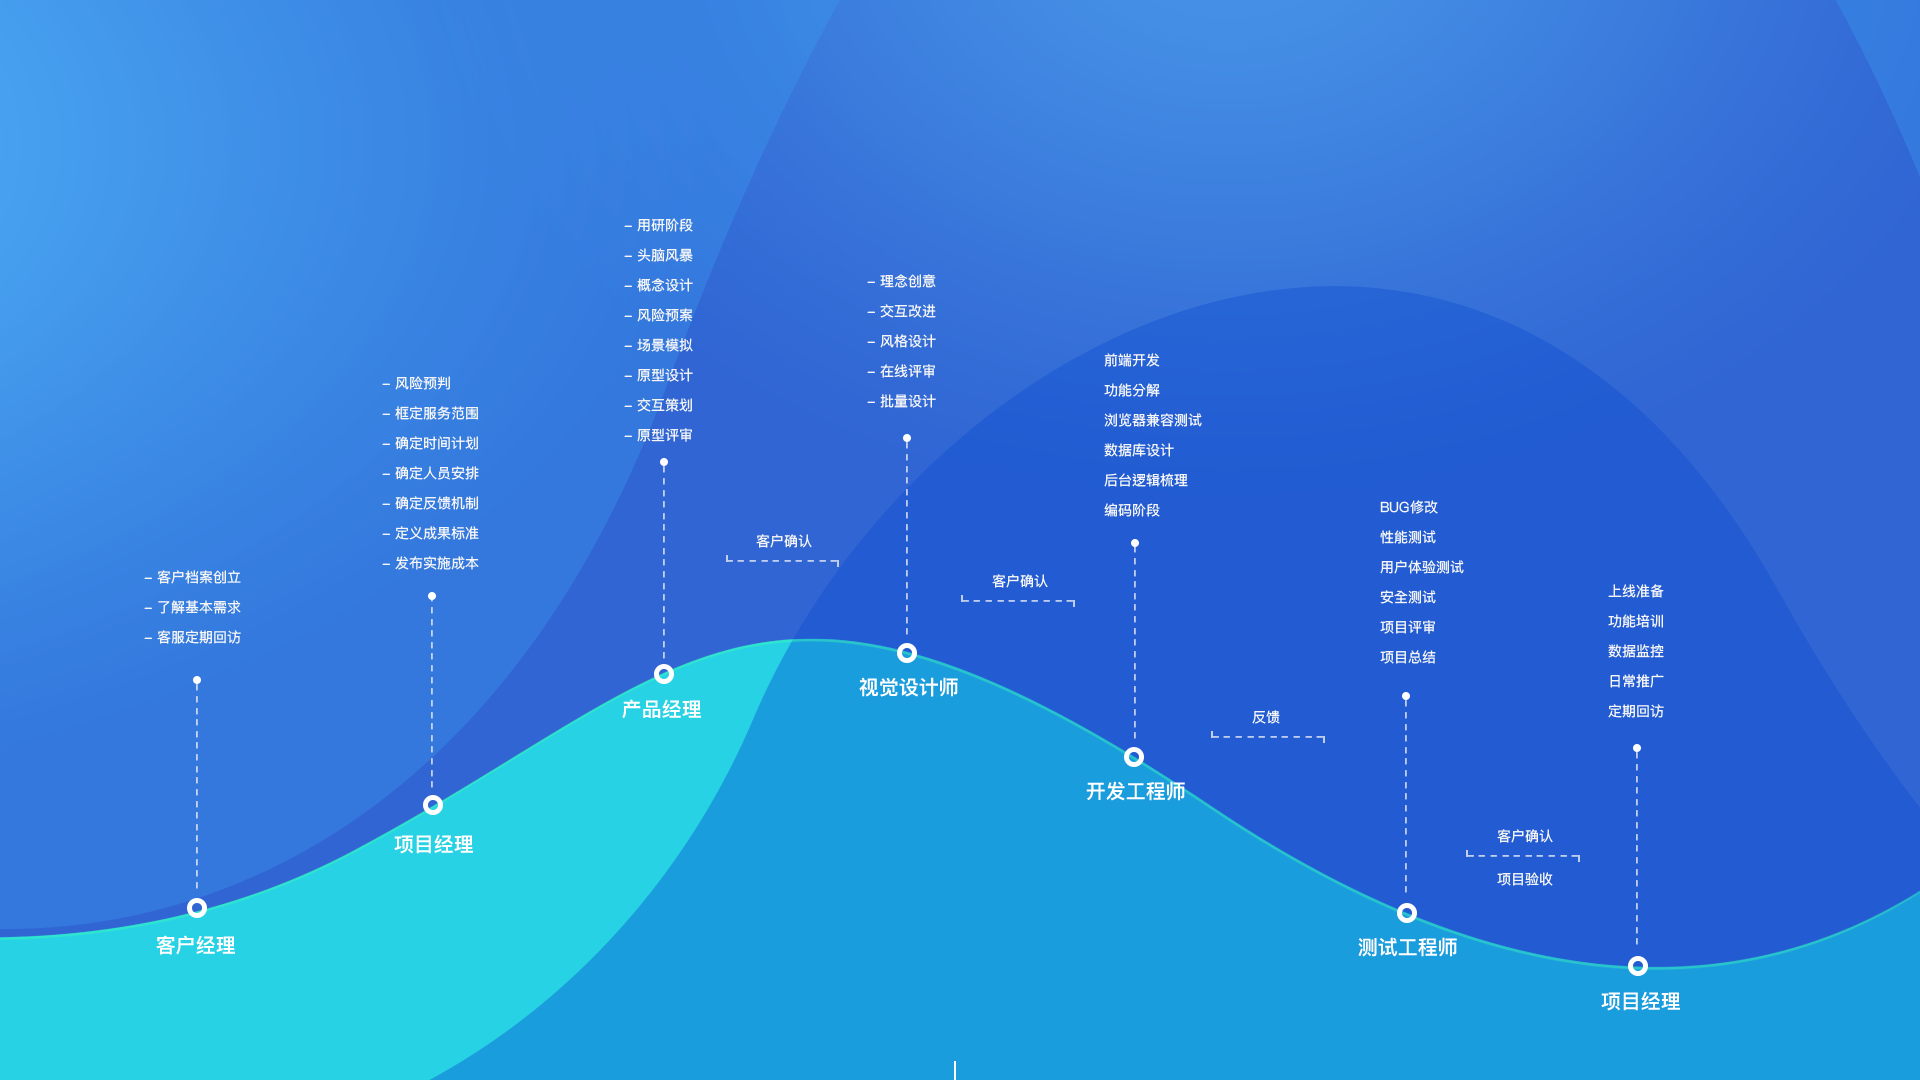
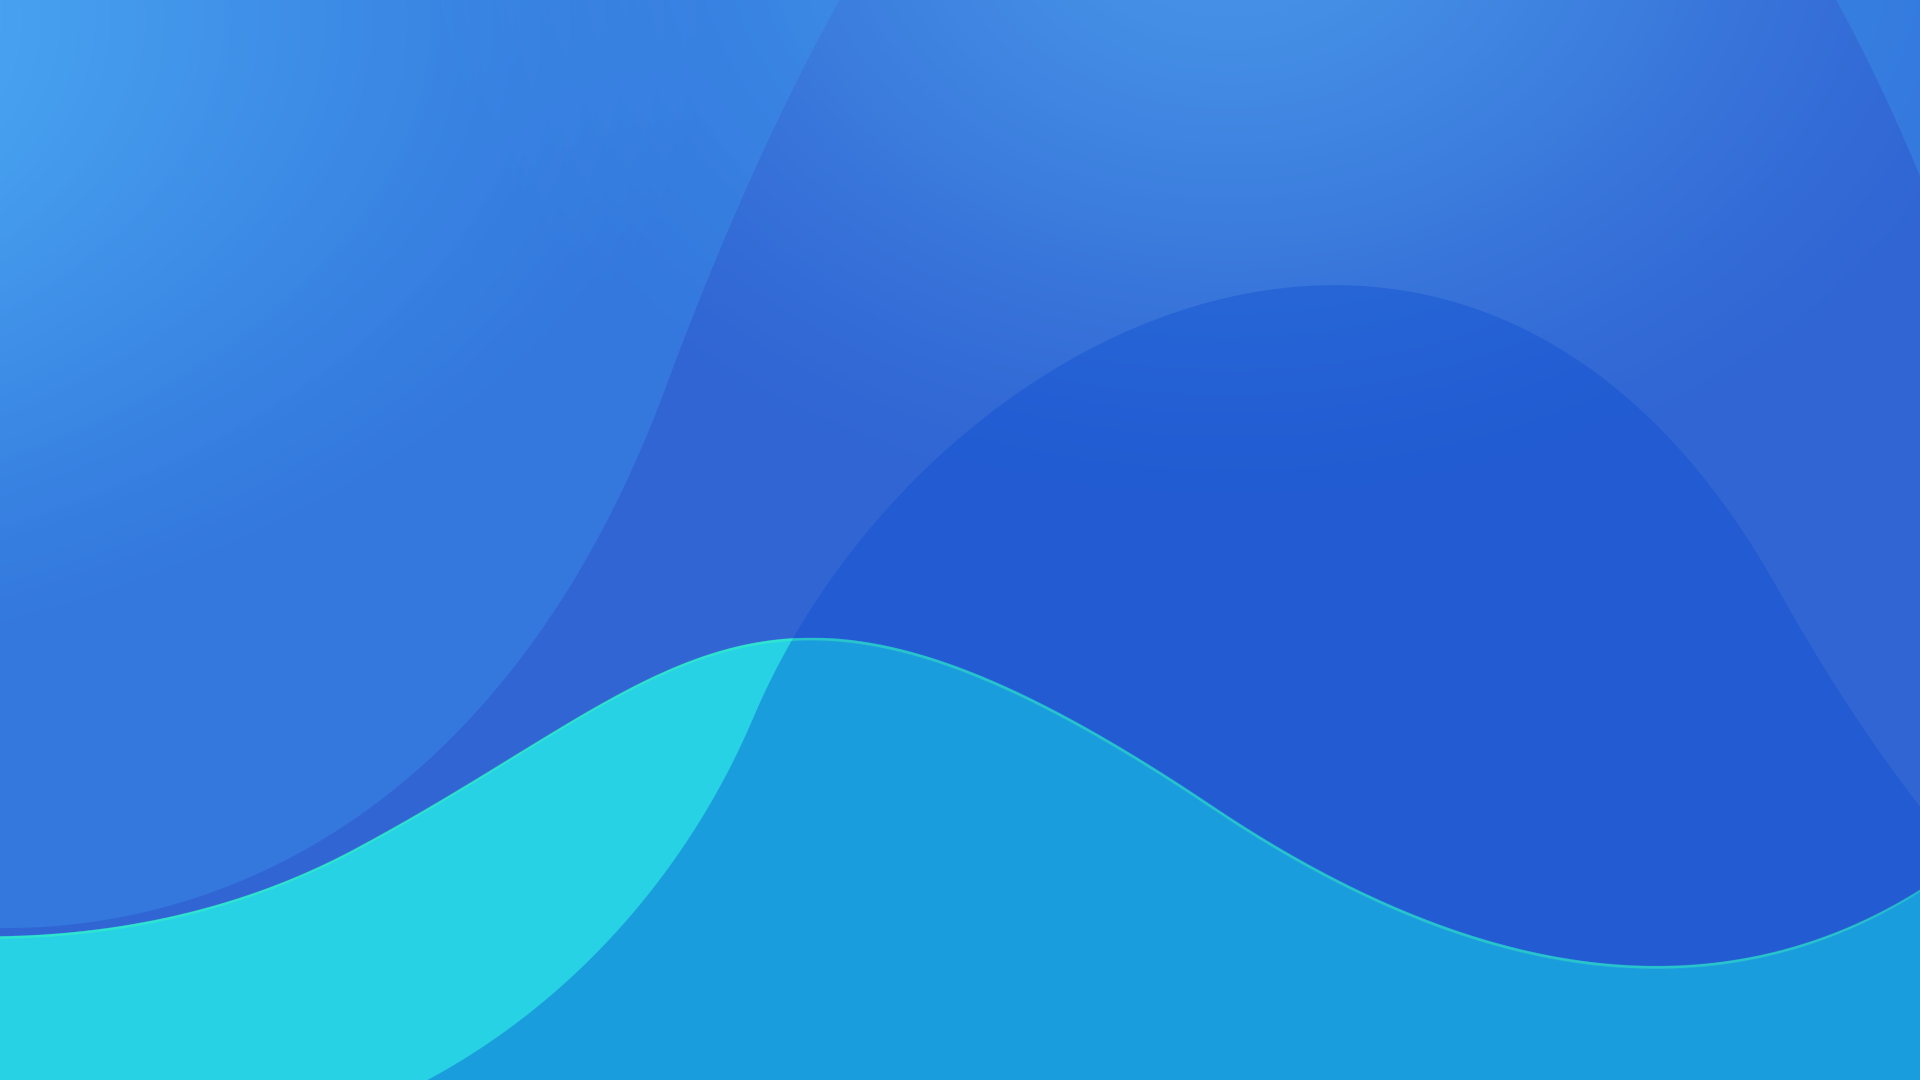
xun-ao5-18

diff --git a/service.html b/service.html
@@ -26,7 +26,7 @@
             <ul>
                 <li class="active font18"><a class="color_fff" href="">首页</a></li>
                 <li class="font18"><a class="color_fff" href="">案例</a></li>
-                <li class="font18"><a class="color_fff" href="">服务</a></li>
+                <li class="font18"><a class="color_fff" href="service.html">服务</a></li>
                 <li class="font18"><a class="color_fff" href="">方案</a></li>
                 <li class="font18"><a class="color_fff" href="">合作</a></li>
                 <li class="font18"><a class="color_fff" href="">关于</a></li>
@@ -41,7 +41,7 @@
     <ul class="menu_link">
         <li class="active font18" ><a class="color_fff" href="">首页</a></li>
         <li class="font18"><a class="color_fff" href="">案例</a></li>
-        <li class="font18"><a class="color_fff" href="">服务</a></li>
+        <li class="font18"><a class="color_fff" href="service.html">服务</a></li>
         <li class="font18"><a class="color_fff" href="">方案</a></li>
         <li class="font18"><a class="color_fff" href="">合作</a></li>
         <li class="font18"><a class="color_fff" href="">关于</a></li>
@@ -63,81 +63,188 @@
                 <img src="images/typeIcon1.png" alt="产品方案策略"/>
                 <h3>产品方案策略</h3>
                 <ul class="animated">
-                    <li class="col-lg-4">专家评估及需求分析</li>
-                    <li class="col-lg-4">竞品分析及趋势研究</li>
-                    <li class="col-lg-4">开放式的目标人群调研</li>
-                    <li class="col-lg-4">产品功能模型定义</li>
-                    <li class="col-lg-4">产品性格塑造</li>
-                    <li class="col-lg-4">产品体验创新设计实施</li>
-                    <li class="col-lg-4">设计指南规范输出 </li>
+                    <h3>产品方案策略</h3>
+                    <li>专家评估及需求分析</li>
+                    <li>竞品分析及趋势研究</li>
+                    <li>开放式的目标人群调研</li>
+                    <li>产品功能模型定义</li>
+                    <li>产品性格塑造</li>
+                    <li>产品体验创新设计实施</li>
+                    <li>设计指南规范输出 </li>
                 </ul>
             </li>
             <li class="col-lg-4">
                 <img src="images/typeIcon2.png" alt="产品体验设计"/>
                 <h3>产品体验设计</h3>
                 <ul class="animated">
-                    <li class="col-lg-4">用户问卷设计</li>
-                    <li class="col-lg-4">用户行业分析</li>
-                    <li class="col-lg-4">产品原型设计</li>
-                    <li class="col-lg-4">产品交互设计</li>
-                    <li class="col-lg-4">UI界面设计</li>
-                    <li class="col-lg-4">图标规范设计</li>
+                    <h3>产品体验设计</h3>
+                    <li>用户问卷设计</li>
+                    <li>用户行业分析</li>
+                    <li>产品原型设计</li>
+                    <li>产品交互设计</li>
+                    <li>UI界面设计</li>
+                    <li>图标规范设计</li>
                 </ul>
             </li>
             <li class="col-lg-4">
                 <img src="images/typeIcon3.png" alt="移动端APP开发"/>
                 <h3>移动端APP开发</h3>
                 <ul class="animated">
-                    <li class="col-lg-4">直播电商APP开发</li>
-                    <li class="col-lg-4">社交APP开发</li>
-                    <li class="col-lg-4">新媒体APP开发</li>
-                    <li class="col-lg-4">农业APP开发</li>
-                    <li class="col-lg-4">工业APP开发</li>
-                    <li class="col-lg-4">生活APP开发</li>
-                    <li class="col-lg-4">智能应用APP开发</li>
+                    <h3>移动端APP开发</h3>
+                    <li>直播电商APP开发</li>
+                    <li>社交APP开发</li>
+                    <li>新媒体APP开发</li>
+                    <li>农业APP开发</li>
+                    <li>工业APP开发</li>
+                    <li>生活APP开发</li>
+                    <li>智能应用APP开发</li>
                 </ul>
             </li>
             <li class="col-lg-4">
                 <img src="images/typeIcon4.png" alt="微信H5开发"/>
                 <h3>微信H5开发</h3>
                 <ul class="animated">
-                    <li class="col-lg-4">H5活动页面订制</li>
-                    <li class="col-lg-4">微信公众号开发</li>
-                    <li class="col-lg-4">微官网建设</li>
-                    <li class="col-lg-4">微短片创意制作</li>
-                    <li class="col-lg-4">微分销</li>
-                    <li class="col-lg-4">微信支付</li>
+                    <h3>微信H5开发</h3>
+                    <li>H5活动页面订制</li>
+                    <li>微信公众号开发</li>
+                    <li>微官网建设</li>
+                    <li>微短片创意制作</li>
+                    <li>微分销</li>
+                    <li>微信支付</li>
                 </ul>
             </li>
             <li class="col-lg-4">
                 <img src="images/typeIcon5.png" alt="技术研发"/>
                 <h3>技术研发</h3>
                 <ul class="animated">
-                    <li class="col-lg-4">门户网站CMS系统开发</li>
-                    <li class="col-lg-4">CRM客户管理系统</li>
-                    <li class="col-lg-4">数据可视化应用开发</li>
-                    <li class="col-lg-4">视频直播系统订制</li>
-                    <li class="col-lg-4">电商平台开发</li>
-                    <li class="col-lg-4">响应式网站开发</li>
+                    <h3>技术研发</h3>
+                    <li>门户网站CMS系统开发</li>
+                    <li>CRM客户管理系统</li>
+                    <li>数据可视化应用开发</li>
+                    <li>视频直播系统订制</li>
+                    <li>电商平台开发</li>
+                    <li>响应式网站开发</li>
                 </ul>
             </li>
             <li class="col-lg-4">
                 <img src="images/typeIcon6.png" alt="创意数字动画"/>
                 <h3>创意数字动画</h3>
                 <ul class="animated">
-                    <li class="col-lg-4">卡通形象设计</li>
-                    <li class="col-lg-4">动画场景设计</li>
-                    <li class="col-lg-4">新媒体APP开发</li>
-                    <li class="col-lg-4">短片制作</li>
-                    <li class="col-lg-4">小游戏制作</li>
-                    <li class="col-lg-4">3D虚拟场景</li>
+                    <h3>创意数字动画</h3>
+                    <li>卡通形象设计</li>
+                    <li>动画场景设计</li>
+                    <li>新媒体APP开发</li>
+                    <li>短片制作</li>
+                    <li>小游戏制作</li>
+                    <li>3D虚拟场景</li>
                 </ul>
             </li>
         </ul>
     </li>
     <li class="third">
         <h2>迅傲项目流程</h2>
-
+        <ul>
+            <li class="point">
+                <h3>客户经理</h3>
+                <img src="images/works.png" alt=""/>
+                <div class="works">
+                    <p>- 客户档案建立</p>
+                    <p>- 了解基本需求</p>
+                    <p>- 客服定期回访</p>
+                </div>
+            </li>
+            <li></li>
+            <li class="point">
+                <h3>项目经理</h3>
+                <img src="images/works.png" alt=""/>
+                <div class="works">
+                    <p>- 风险预判</p>
+                    <p>- 框定服务范围</p>
+                    <p>- 确定时间计划</p>
+                    <p>- 确定人员安排</p>
+                    <p>- 确定反馈机制</p>
+                    <p>- 定义成果标准</p>
+                    <p>- 发布实施成本</p>
+                </div>
+            </li>
+            <li>        </li>
+            <li class="point">
+                <h3>产品经理</h3>
+                <img src="images/works.png" alt=""/>
+                <div class="works">
+                    <p>- 用研阶段</p>
+                    <p>- 头脑风暴</p>
+                    <p>- 概念设计</p>
+                    <p>- 风险预案</p>
+                    <p>- 场景模拟</p>
+                    <p>- 原型设计</p>
+                    <p>- 交互策划</p>
+                    <p>- 原型评审</p>
+                </div>
+            </li>
+            <li class="process">
+                <p class="text1">客户确认</p>
+                <img src="images/progress.png" alt=""/>
+            </li>
+            <li class="point">
+                <h3>视觉设计师</h3>
+                <img src="images/works.png" alt=""/>
+                <div class="works">
+                    <p>- 理念创意</p>
+                    <p>- 交互改进</p>
+                    <p>- 风格设计</p>
+                    <p>- 在线评审</p>
+                    <p>- 批量设计</p>
+                </div>
+            </li>
+            <li class="process">
+                <p class="text1">客户确认</p>
+                <img src="images/progress.png" alt=""/>
+            </li>
+            <li class="point">
+                <h3>开发工程师</h3>
+                <img src="images/works.png" alt=""/>
+                <div class="works">
+                    <p>- 前端开发</p>
+                    <p>- 功能分解</p>
+                    <p>- 数据库设计</p>
+                    <p>- 后台逻辑梳理</p>
+                    <p>- 编码阶段</p>
+                </div>
+            </li>
+            <li class="process">
+                <p class="text1">反馈</p>
+                <img src="images/progress.png" alt=""/>
+            </li>
+            <li class="point">
+                <h3>测试工程师</h3>
+                <img src="images/works.png" alt=""/>
+                <div class="works">
+                    <p>- BUG修改</p>
+                    <p>- 性能测试</p>
+                    <p>- 用户体验测试</p>
+                    <p>- 安全测试</p>
+                    <p>- 项目评审</p>
+                    <p>- 项目总结</p>
+                </div>
+            </li>
+            <li class="process">
+                <p class="text1">客户确认</p>
+                <img src="images/progress.png" alt=""/>
+                <p class="text2">验收</p>
+            </li>
+            <li class="point">
+                <h3>项目经理</h3>
+                <img src="images/works.png" alt=""/>
+                <div class="works">
+                    <p>- 上线准备</p>
+                    <p>- 功能培训</p>
+                    <p>- 数据监控</p>
+                    <p>- 日常推广</p>
+                    <p>- 定期回访</p>
+                </div>
+            </li>
+        </ul>
     </li>
     <li class="forth">
         <img src="images/dna.png" alt="迅傲服务亮点">
@@ -303,8 +410,12 @@
             $(".typeList>li img").css({
                 "marginBottom":(height/54*10)
             });
-            $(".typeList>li h3").css({
+            $(".typeList>li>h3").css({
                 "marginBottom":(height/54*4)
+            });
+            $(".typeList>li>ul h3").css({
+                "marginTop":(height/540*80),
+                "marginBottom":(height/540*80),
             });
         }
         type();
@@ -313,6 +424,25 @@
             var height = $(".third").height();
             $(".third h2").css({
                 "paddingTop":height/1080*80,
+            });
+            $(".third ul").css({
+                "bottom":height/1080*200,
+            });
+            $(".third .point img").css({
+                "bottom":height/1080*36,
+                "height":height/1080*223
+            });
+            $(".third .point .works").css({
+                "bottom":height/1080*259,
+            });
+            $(".third .process img").css({
+                "bottom":height/1080*150,
+            });
+            $(".third .process p.text1").css({
+                "bottom":height/1080*150,
+            });
+            $(".third .process p.text2").css({
+                "bottom":height/1080*95,
             });
         }
         line();

diff --git a/css/service.css b/css/service.css
@@ -1,30 +1,38 @@
 .screenList{width: 100%;height: 100%;margin-bottom:0;position: relative;}
 .screenList>li{width: 100%;height: 100%;font-size: 0;}
-
+/*first*/
 .screenList li.first{background:url('../images/service1.png') top center no-repeat;background-size: cover;position: relative;}
 .screenList li.first .thinking{position: absolute;top:50%;left:50%;z-index: 2;}
 .first .thinking h2{font-size: 45px;color: #fff;line-height: 50px;text-align: center;margin: 0;}
 .first .thinking p{font-size: 20px;color: #fff;line-height: 25px;text-align: center;margin: 0;}
 .first .thinking p.top{margin-top: 44px;}
-
+/*second*/
 .screenList li.second{background-color: #fff;}
 .second .typeList{overflow: hidden;width:100%;height: 100%;}
 .second .typeList>li{float: left;height: 50%;border-right: 1px solid #ebebeb;border-bottom: 1px solid #ebebeb;text-align: center;padding: 0 5px;position: relative;}
 .second .typeList>li img{height: 30%;}
-.second .typeList>li h3{margin: 0;font-size: 24px;line-height: 24px;font-weight: bold;}
-.second .typeList>li ul{width:100%;height:100%;position: absolute;top:0;left:0;background-color: rgba(0,0,0,.5);display: none;}
+.second .typeList>li>h3{margin: 0;font-size: 24px;line-height: 24px;font-weight: bold;}
+.second .typeList>li ul{width:100%;height:100%;position: absolute;top:0;left:0;background:url("../images/typeList.png") no-repeat;background-size:100% 100%;display: none;}
+.second .typeList>li ul h3{color:#fff;font-size: 24px;}
 .second .typeList>li li{font-size: 14px;line-height:25px;padding: 0;color: #fff;}
-
+/*third*/
 .screenList li.third{background:url('../images/service3.png') center no-repeat;background-size: 100% auto;position: relative;}
 .screenList li.third h2{text-align: center;margin: 0;color: #fff;}
-
+.third ul{width: 1300px;position: absolute;left:50%;margin-left: -650px;}
+.third li{width: 100px;min-height:14px;float: left;font-size: 14px;text-align: center;color: #fff;position: relative;}
+.third li.point h3{position: absolute;bottom:0;font-size: 16px;height:16px;margin: 0;width: 100%;text-align: center;}
+.third li.point img{position: absolute;font-size: 16px;}
+.third li.point .works{position: absolute;font-size: 14px;width: 100%;text-align: center;}
+.third li.process img{position: absolute;width: 70%;left:15%;}
+.third li.process p{position: absolute;width: 100%;font-size: 14px;}
+/*forth*/
 .screenList li.forth{background:url('../images/service4.png') center no-repeat;background-size: cover;position: relative;text-align: center;}
 .screenList li.forth img{width: 130px;}
 .screenList li.forth>h2{font-size:22px !important;color: #fff;margin-top:-5px;}
 .screenList li.forth h2{font-size:24px;color: #fff;}
 .screenList li.forth p{font-size:14px;color: #fff;text-align: left;}
 .screenList li.forth .middle{left:50%;}
-
+/*fifth*/
 .screenList li.fifth{background-color:#242424;position: relative;}
 .fifth h2{font-size: 45px;line-height: 45px;color: #fff;text-align: center;}
 .fifth .contactMessage{width:440px;height:62px;margin:0 auto;border-radius: 31px;background: url("../images/contactMessage.png") no-repeat;background-size: 100% 100%;padding:15px 0 15px 20px;}
@@ -39,8 +47,6 @@
 .fifth button{width:416px;background: url("../images/button.png") no-repeat;background-size:100% 100%;color: #fff;font-size: 14px;margin: 0 220px;}
 footer{position: absolute;bottom:0;left:0;}
 footer p{margin: 10px !important;}
-
-
 aside{position: fixed;top:50%;right:45px;margin-left: -40px;padding: 10px 5px;background-color: #fff;border-radius: 10px;}
 aside ol{margin: 0;}
 aside li{width: 10px;height: 10px;background-color: #e4e4e4;margin-bottom: 5px;border-radius: 5px;}

diff --git a/index.html b/index.html
@@ -25,7 +25,7 @@
                 <ul>
                     <li class="active font18"><a class="color_fff" href="">首页</a></li>
                     <li class="font18"><a class="color_fff" href="">案例</a></li>
-                    <li class="font18"><a class="color_fff" href="">服务</a></li>
+                    <li class="font18"><a class="color_fff" href="service.html">服务</a></li>
                     <li class="font18"><a class="color_fff" href="">方案</a></li>
                     <li class="font18"><a class="color_fff" href="">合作</a></li>
                     <li class="font18"><a class="color_fff" href="">关于</a></li>
@@ -40,7 +40,7 @@
         <ul class="menu_link">
             <li class="active font18" ><a class="color_fff" href="">首页</a></li>
             <li class="font18"><a class="color_fff" href="">案例</a></li>
-            <li class="font18"><a class="color_fff" href="">服务</a></li>
+            <li class="font18"><a class="color_fff" href="service.html">服务</a></li>
             <li class="font18"><a class="color_fff" href="">方案</a></li>
             <li class="font18"><a class="color_fff" href="">合作</a></li>
             <li class="font18"><a class="color_fff" href="">关于</a></li>
